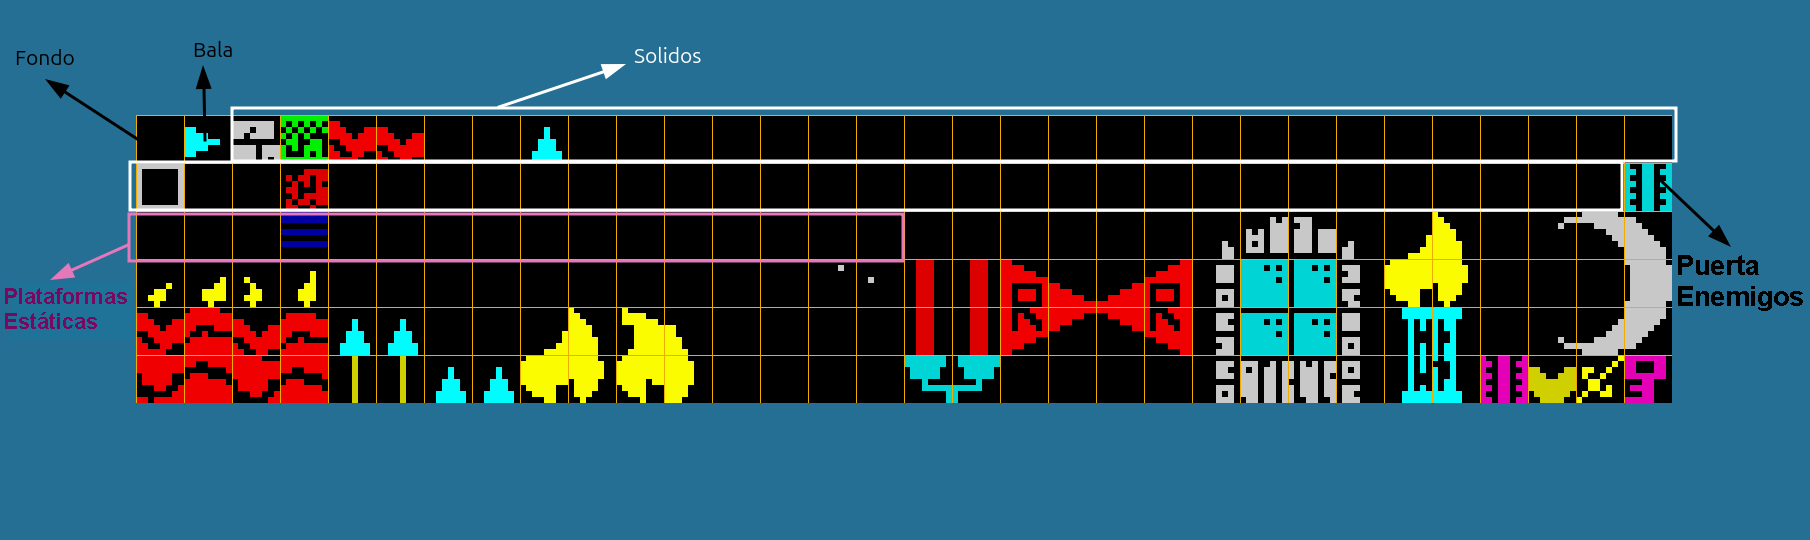
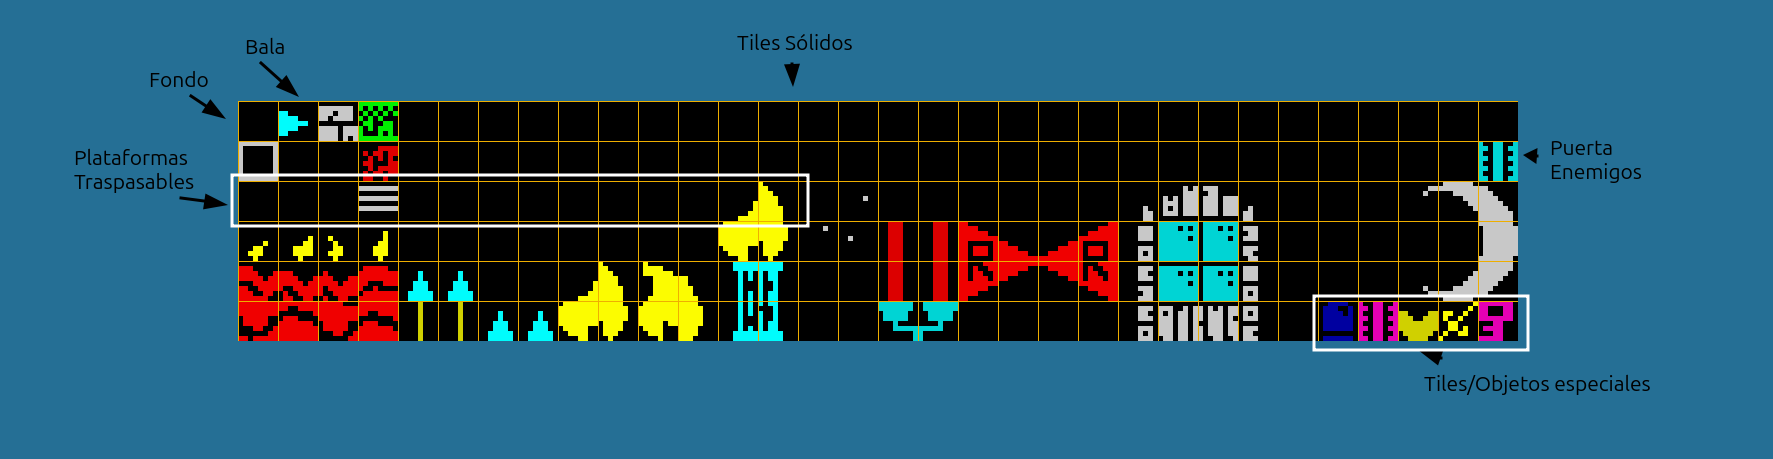
improve documentation adding it for new features

diff --git a/pages/mydoc/mydoc_tiled_general_configuration.md b/pages/mydoc/mydoc_tiled_general_configuration.md
@@ -12,24 +12,34 @@ Puedes añadir configuraciones generales de tu juego en las propiedades personal
 
 Propiedades personalizadas:
 
-* **VTPLAYER_INIT** (string). Posición de memoria inicial para la música vortex (Se verá en el capítulo de música en el juego)
-* **VTPLAYER_MUTE** (string). Posición de memoria de mute para la música vortex (Se verá en el capítulo de música en el juego)
-* **VTPLAYER_NEXTNOTE** (string). Posición de memoria para reproducir la próxima nota para la música vortex (Se verá en el capítulo de música en el juego)
-* **animatePeriodEnemy** (int). Número más alto, animación de los enemigos más lenta.
-* **animatePeriodMain** (int). Número más alto, animación del personaje principal más lenta.
-* **animatePeriodTile** (int). Número más alto, animación de los tiles más lenta.
-* **bulletDistance** (int). Distancia que queramos que recorra la bala. Si seteamos una distancia corta como de 2, da el efecto de que el personaje ataca con el arma a corta distancia como una espada.
-* **damageAmount** (int). Cuánto daño le hacen al personaje los enemigos.
-* **enemiesRespawn** (bool). Si los enemigos (no invencibles) vuelven a aparecer des pués de matarlos al volver a entrar en la habitación.
-* **gameName** (string). Nombre del juego. Aparecerá en el título loading cuando carga y el tap se generará con este nombre. 10 carácteres como máximo sin carácteres especiales (acentos, ñ...)
-* **goalItems** (int). Número de items necesarios para finalizar el juego.
-* **initialLife** (int). Cantidad de vida inicial del personaje.
-* **lifeAmount** (int). Cantidad de vida que incrementa al personaje los items **life**.
-* **maxEnemiesPerScreen** (int). Se puede configurar la cantidad de enemigos que aparecen en pantalla (hasta 5). Evitar poner más de los que se usan para optimizar espacio.
-* **musicEnabled** (bool). Para habilitar o deshabilitar la música AY. Si se habilita la música el juego resultante sólo funcionará en 128K, para hacer una versión 48K tendrás que desmarcar guardar y volver a compilar.
-* **shooting** (bool). Con esto habilitamos o deshabilitamos el disparo del personaje.
-* **shouldKillEnemies** (bool). Con esta propiedad activa, si una habitación tiene enemigos, no podremos salir de ella hasta que los matemos a todos.
-* **backgroundAttribute** (int). Color de fondo del juego en decimal en forma de atributos de spectrum. Por ejemplo para color de fondo negro con sprites en blanco seria 7 (00000111). Para color de fondo azul con sprites en blanco seria 15 (00001111). Si no se define este atributo se pintara fondo negro sprites blancos. Podéis usar la calculadora siguiente para saber que valor tenéis que poner.
+* **VTPLAYER_INIT**. Posición de memoria inicial para la música vortex (Se verá en el capítulo de música en el juego)
+* **VTPLAYER_MUTE**. Posición de memoria de mute para la música vortex (Se verá en el capítulo de música en el juego)
+* **VTPLAYER_NEXTNOTE**. Posición de memoria para reproducir la próxima nota para la música vortex (Se verá en el capítulo de música en el juego)
+* **ammo** (). Cantidad de munición con la que empezará el personaje principal. Si seteas -1 el personaje tendrá munición infinita.
+* **ammoIncrement**. Cantidad de munición que se recarga cada vez que el protagonista recoja un item de recarga de munición.
+* **animatePeriodEnemy**. Número más alto, animación de los enemigos más lenta.
+* **animatePeriodMain**. Número más alto, animación del personaje principal más lenta.
+* **animatePeriodTile**. Número más alto, animación de los tiles más lenta.
+* **border**. Color del borde in game. Muy útil cuando se cambia el color de fondo del juego y del hud.
+* **bulletDistance**. Distancia que queramos que recorra la bala. El valor 0 se traduce como distancia infinita, la bala no parará hasta que choque con algún obstáculo. Si seteamos una distancia corta como de 2, da el efecto de que el personaje ataca con el arma a corta distancia como una espada.
+* **damageAmount**. Cuánto daño le hacen al personaje los enemigos.
+* **enemiesRespawn**. Si los enemigos (no invencibles) vuelven a aparecer des pués de matarlos al volver a entrar en la habitación.
+* **gameName**. Nombre del juego. Aparecerá en el título loading cuando carga y el tap se generará con este nombre. 10 carácteres como máximo sin carácteres especiales (acentos, ñ...)
+* **gameView**. Tipo de juego a desarrollar, side es un juego de plataformas lateral, y overhead, un juego de vista cenital.
+* **goalItems**. Número de items necesarios para finalizar el juego.
+* **hiScore**. Habilita la puntuación in game y el guardado de la misma para que aparezca en la pantalla de menú.
+* **initialLife**. Cantidad de vida inicial del personaje.
+* **ink**. Color de la tinta in game. Muy útil cuando se cambia el color de fondo del juego y del hud.
+* **killJumpingOnTop**. Habilita el poder de matar a los enemigos saltando encima. (Solo juego plataformas)
+* **lifeAmount**. Cantidad de vida que incrementa al personaje los items **life**.
+* **maxEnemiesPerScreen**. Se puede configurar la cantidad de enemigos que aparecen en pantalla (hasta 5). Evitar poner más de los que se usan para optimizar espacio.
+* **musicEnabled**. Para habilitar o deshabilitar la música AY. Si se habilita la música el juego resultante sólo funcionará en 128K, para hacer una versión 48K tendrás que desmarcar guardar y volver a compilar.
+* **paper**. Color del papel in game. Muy útil cuando se cambia el color de fondo del juego y del hud.
+* **password**. Password que se pedirá al iniciar el juego para poder jugar. Útil para juegos con más de una carga con sistema de passwords.
+* **shooting**. Con esto habilitamos o deshabilitamos el disparo del personaje.
+* **shouldKillEnemies**. Con esta propiedad activa, si una habitación tiene enemigos, no podremos salir de ella hasta que los matemos a todos.
+* **waitPressKeyAfterLoad**. Si habilitas esta opción, tras la carga el juego esperará que pulses una tecla para mostrar el menú.
+* **backgroundAttribute**. Color de fondo del juego en decimal en forma de atributos de spectrum. Por ejemplo para color de fondo negro con sprites en blanco seria 7 (00000111). Para color de fondo azul con sprites en blanco seria 15 (00001111). Si no se define este atributo se pintara fondo negro sprites blancos. Podéis usar la calculadora siguiente para saber que valor tenéis que poner.
 
 <div style="margin: auto; width: 50%">
     <p>Generador de Atributos ZX Spectrum</p>

diff --git a/pages/mydoc/mydoc_tiled_adding_objects.md b/pages/mydoc/mydoc_tiled_adding_objects.md
@@ -18,7 +18,7 @@ Este es el objeto que el protagonista deberá ir recogiendo por todo el juego pa
 
 Tienes que seleccionar el tile que quieras usar para este fin, por ejemplo en el juego de Krilin la daga, y poner que el tipo de el mismo es **item**.
 
-Para ello haz clic en la rueda dentada de propiedades del tileset, selecciona el tile que desees (la daga por ejemplo) y escribe **item** en la casilla type.
+Para ello haz clic en la rueda dentada de propiedades del tileset, selecciona el tile que desees (la daga por ejemplo) y escribe **item** en la casilla Class.
 
 ![](images/type_item.png)
 
@@ -26,7 +26,7 @@ Para ello haz clic en la rueda dentada de propiedades del tileset, selecciona el
 
 Este tile será considerado solido para el protagonista. deberás tener al menos una **key** para abrir la puerta y cuando lo hagas se te restará de tu inventario.
 
-Para setear un tile de este tipo haz clic en la rueda dentada de propiedades del tileset, selecciona el tile que desees y escribe **door** en la casilla type.
+Para setear un tile de este tipo haz clic en la rueda dentada de propiedades del tileset, selecciona el tile que desees y escribe **door** en la casilla Class.
 
 Después ya puedes añadirlo a tu mapa arrastrándolo.
 
@@ -36,16 +36,25 @@ Después ya puedes añadirlo a tu mapa arrastrándolo.
 
 Como habrás podido ver en el párrafo anterior, necesitas el objeto **key** para abrir las puertas.
 
-Para setear un tile de este tipo haz clic en la rueda dentada de propiedades del tileset, selecciona el tile que desees y escribe **key** en la casilla type.
+Para setear un tile de este tipo haz clic en la rueda dentada de propiedades del tileset, selecciona el tile que desees y escribe **key** en la casilla Class.
 
 Después ya puedes añadirlo a tu mapa arrastrándolo.
 
 ![](images/type_key.png)
 
+## Munición
+
+Este objeto permitirá al personaje restablecer la cantidad de munición que hayas especificado en el valor de la configuración **ammoIncrement** solo si has especificado un valor de munición inicial (**ammo**) no infinita (-1).
+
+![](images/type_ammo.png)
+
 ## Puerta que necesita que mates a todos los enemigos
 
 Para utilizar esta puerta debes habilitar la opción **shouldKillEnemies**. El tile nº 64 (el último de la segunda fila), esta designado para añadir este tipo de puerta, solo añadirlo a tu mapa arrastrándolo. Deberás matar a todos los enemigos para abrir la puerta.
 
+Para setear un tile de este tipo haz clic en la rueda dentada de propiedades del tileset, selecciona el tile que desees y escribe **ammo** en la casilla Class.
+
+Después ya puedes añadirlo a tu mapa arrastrándolo.
 
 ![](images/type_enemy_door.png)
 
@@ -53,7 +62,7 @@ Para utilizar esta puerta debes habilitar la opción **shouldKillEnemies**. El t
 
 Este objeto permitirá al personaje restablecer una cantidad de vida (configurable).
 
-Para setear un tile de este tipo haz clic en la rueda dentada de propiedades del tileset, selecciona el tile que desees y escribe **life** en la casilla type.
+Para setear un tile de este tipo haz clic en la rueda dentada de propiedades del tileset, selecciona el tile que desees y escribe **life** en la casilla Class.
 
 Después ya puedes añadirlo a tu mapa arrastrándolo.
 
@@ -63,7 +72,7 @@ Después ya puedes añadirlo a tu mapa arrastrándolo.
 
 Este tipo de tile dañará al personaje principal cuando lo toque y este saldrá rebotado.
 
-Para setear un tile de este tipo haz clic en la rueda dentada de propiedades del tileset, selecciona el tile que desees y escribe **damage** en la casilla type.
+Para setear un tile de este tipo haz clic en la rueda dentada de propiedades del tileset, selecciona el tile que desees y escribe **damage** en la casilla Class.
 
 **Importante** solo puedes marcar tiles de daño **tiles no sólidos**, es decir, después de las plataformas traspasables, a partir del tile 78.
 
@@ -73,7 +82,7 @@ En ocasiones le da un aspecto más agradable que los escenarios tengan ciertos t
 
 Para ello deberás tener preparado tu tileset con el tile que tengas pensado animar y justamente el siguiente tile sea el frame al que se intercambiará para simular el movimiento.
 
-Para setear un tile de este tipo haz clic en la rueda dentada de propiedades del tileset, selecciona el tile que desees y escribe **animated** en la casilla type.
+Para setear un tile de este tipo haz clic en la rueda dentada de propiedades del tileset, selecciona el tile que desees y escribe **animated** en la casilla Class.
 
 ![](images/tileset_con_tiles_animados.png)
 

diff --git a/pages/mydoc/mydoc_images_screens.md b/pages/mydoc/mydoc_images_screens.md
@@ -10,23 +10,23 @@ folder: mydoc
 
 Para crear tus juegos para ZX Spectrum necesitas crear/editar algunas imágenes.
 
-**Pantallas** como la principal, de carga, HUD... y el **Tileset** o conjunto de tiles que usarás para diseñar tu mapa y el **Spriteset** o conjunto de sprites como el personaje principal, enemigos...
+**Pantallas** como la principal, de carga, HUD...
 
-Tienes que crear 4 pantallas en PNG en la carpeta assets/screens loading.png, title.png, ending.png y hud.png
+Tienes que crear 4 pantallas en PNG en la carpeta assets/screens loading.scr, title.scr, ending.scr y hud.scr
 
-Para el diseño de las mismas sólo podéis utilizar la paleta de colores del ZX Spectrum, si usáis programas especializados como [ZX Paintbrush](https://sourcesolutions.itch.io/zx-paintbrush) ya lo tienen en cuenta.
+Recomiendo usar programas especializados como [ZX Paintbrush](https://sourcesolutions.itch.io/zx-paintbrush).
 
 Tenéis ejemplos en la misma carpeta para simplemente modificar las pantallas existentes y ver que requisitos tienen (tamaño...)
 
 ## Carga
 
-Esta imagen (assets/screens/loading.png) será usada en la pantalla de carga. Es la que se muestra mientras tu juego está cargando.
+Esta imagen (assets/screens/loading.scr) será usada en la pantalla de carga. Es la que se muestra mientras tu juego está cargando.
 
 ![](images/loading.png)
 
 ## Pantalla principal
 
-Esta imagen (assets/screens/title.png) es la que se muestra nada más cargar el juego y que debe contener las opciones que puede seleccionar el usuario.
+Esta imagen (assets/screens/title.scr) es la que se muestra nada más cargar el juego y que debe contener las opciones que puede seleccionar el usuario.
 
 1. Teclado
 2. Kempston
@@ -38,14 +38,14 @@ Nos ayudaría bastante que en la pantalla de inicio añadieras nuestro logo. Pue
 
 ## Ending
 
-Esta imagen (assets/screens/ending.png) se mostrará cuando el usuario se pase el juego.
+Esta imagen (assets/screens/ending.scr) se mostrará cuando el usuario se pase el juego.
 
 ![](images/ending.png)
 
 ## HUD
 
 
-Esta imagen (assets/screens/hud.png) se mostrará debajo de tu juego para indicarle al usuario cuanta vida le queda y cuantas llaves e items ha recolectado.
+Esta imagen (assets/screens/hud.scr) se mostrará debajo de tu juego para indicarle al usuario cuanta vida le queda y cuantas llaves e items ha recolectado.
 
 Tiene el mismo tamaño que las anteriores pero solo necestas diseñar la parte de abajo.
 

diff --git a/pages/mydoc/mydoc_images_spriteset.md b/pages/mydoc/mydoc_images_spriteset.md
@@ -10,7 +10,10 @@ folder: mydoc
 
 Debes crear/editar el fichero assets/sprites.zxp de 256x32px añadiendo tus sprites (personaje, enemigos...) y donde cada uno de estos tendrá una dimensión de 16x16px.
 
-### Primera fila
+## Primera fila
+
+### Vista lateral (Plataformas)
+
 Los primeros 8 sprites están reservados para la animación del protagonista:
 * Los 2 primeros para el movimiento hacia la derecha
 * El 3ª 1er frame de subir/bajar escaleras. 
@@ -25,12 +28,29 @@ El 15 de momento queda libre.
 
 El último sprite, el 16, se usará para mostrar la explosión del enemigo cuando lo mates.
 
-### Segunda fila
+### Vista cenital
+
+Los primeros 8 sprites están reservados para la animación del protagonista:
+* 1 y 2 movimiento hacia la derecha.
+* 3 y 4 movimiento hacia la izquierda.
+* 5 y 6 movimiento hacia arriba.
+* 7 y 8 movimiento hacia abajo.
+* 9 - 15 libres
+
+El último sprite, el 16, se usará para mostrar la explosión del enemigo cuando lo mates.
+
+## Segunda fila
 Los 16 sprites de la segunda fila se usarán para los enemigos, 2 para cada enemigo, 2 frames de animación, es decir, podrás definir un total de 8 enemigos. Tiene que dibujar solamente los frames del enemigo hacia la derecha.
+
+## Ejemplo lateral (Plataformas)
 
 ![](./images/sprites.png)
 
-### Enemigos hacia la izquierda
+## Ejemplo cenital
+
+![](./images/sprites_cenital.png)
+
+## Enemigos hacia la izquierda
 El motor si solo tienes 2 filas de sprites **generará los sprites de los enemigos automáticamente hacia la izquierda** debajo de lo que se han definido quedando de la siguiente manera:
 
 ![](./images/sprites_izquierda_automated.png)

diff --git a/pages/mydoc/mydoc_images_tileset.md b/pages/mydoc/mydoc_images_tileset.md
@@ -18,9 +18,10 @@ Para crear tu tileset debes tener en cuenta algunas regla, recuerda que tienes u
 
 * El **primer tile** está reservado para el **fondo**.
 * El **segundo tile** está reservado para **"la bala"** que disparará tu protagonista. El motor hace volteado horizontal automático para cuando disparas a un sentido u otro. Si tu "bala" tiene sentido solo tienes que diseñarla en este tile hacia la derecha.
-* Los **siguientes 62 tiles** serán considerados como **sólidos**, es decir, cuando lo coloques en tu mapa, el protagonista no podrá traspasarlos, son los típicos que se usan para paredes, plataformas... Si quieres añadir tiles que le causen daño al personaje principal tiene que estar en estos 62 tiles.
+* Los **siguientes 62 tiles** serán considerados como **sólidos**, es decir, cuando lo coloques en tu mapa, el protagonista no podrá traspasarlos, son los típicos que se usan para paredes, plataformas... Puerta shouldKillEnemies. El último tile de los solidos seá considerada puerta que se abrirá cuando mates a todos los enemigos de esa habitación.
 * Los **siguientes 16 tiles** serán considerados plataformas estáticas. Estas seran traspasables por el protagonirsta desde abajo.
-* Los **tiles restantes**, salvo los 4 últimos, serán considerados no sólidos.
+* Los **tiles restantes**, salvo los 5 últimos, serán considerados no sólidos. Si quieres añadir tiles que le causen daño al personaje principal tiene que estar en estos tiles.
+** Los **Últimos 5 tiles** son tiles especiales para objetos cuyo funcionamiento se definira en Tiled.
 
 ![](./images/tiles.png)
 

diff --git a/pages/mydoc/mydoc_install_skeleton_project.md b/pages/mydoc/mydoc_install_skeleton_project.md
@@ -16,7 +16,7 @@ Al descargar el skeleton/proyecto, descomprimirlo y cambiar el nombre de la carp
 
 Todo lo que influye a la hora de generar tu juego se encuentra en la carpeta **assets**, con lo que os recomiendo que vayáis haciendo copia de esa carpeta por el método que prefiáis (Copia manual, control de versiones...).
 
-La manera de trabajar es simplemente modificar los elementos dentro de la carpeta assets, maps.tmx, tileset.png... Y después ejecutar el script de generación del juego correspondiente de tu sistema operativo que se encuentra en la carpeta raiz.
+La manera de trabajar es simplemente modificar los elementos dentro de la carpeta assets, maps.tiled-project, tiles.zxp... Y después ejecutar el script de generación del juego correspondiente de tu sistema operativo que se encuentra en la carpeta raiz.
 
 **Windows**
 
@@ -31,6 +31,11 @@ Ejecutar script en la consola
 ```
 
 Después de ejecutarlo, si todo ha ido bien, **el juego estará en dist/game.tap**
+
+Además para ayudarte en revisar cuanta memoria estás utilizando en tu juego y cuanta tienes todavía libre, dentro de la carpeta dist tendrás una imagen con una gráfica del uso de memoria.
+
+* En el caso de los juegos en 48k la imagen es memory-bank-0.png
+* En el caso de los juegos de 128k se añadiran a la imagen anterior las gráficas de los otros bancos de memoria en uso como por ejemplo el memory-bank-3.png 
 
 Los ficheros de la carpeta output los puedes borrar sin problema porque son todos generados.
 

diff --git a/pages/mydoc/mydoc_tiled_overview.md b/pages/mydoc/mydoc_tiled_overview.md
@@ -14,4 +14,5 @@ Nuestro juego, aunque es configurable, por defecto tendrá un tamaño de 32x22 t
 
 **El ZX Spectrum Game Maker viene con un mapa de ejemplo y te recomendamos que uses ese editándolo**
 
+Para abrir el mapa debes abrir el fichero maps.tiled-project que está dentro de la carpeta assets/map.
 
